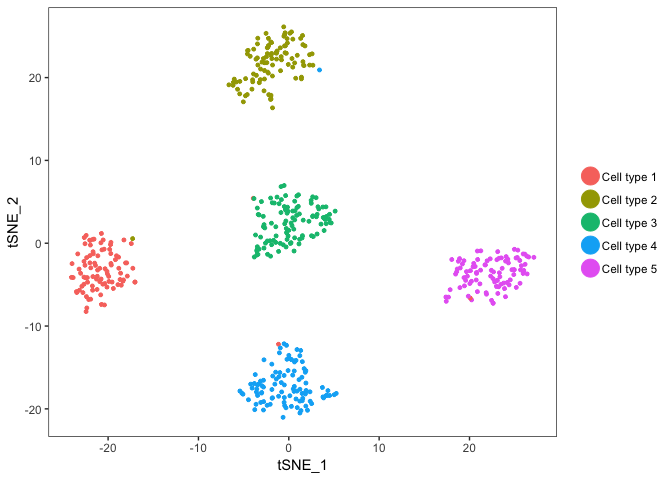
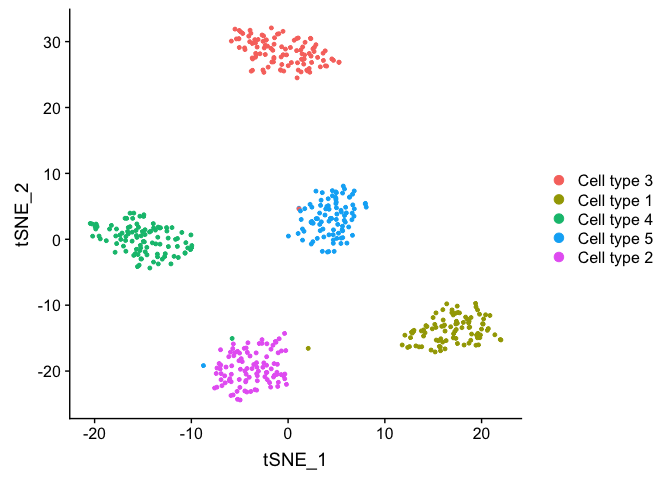
v0.1.1

diff --git a/README.md b/README.md
@@ -5,6 +5,15 @@ README
 
 This package provides a bootstrap imputation method for dropout events in scRNAseq data.
 
+News
+----
+
+> Aug. 14, 2019  
+
+- Version 0.1.1 released!  
+- Compatible with Seurat v3.  
+- Informative genes may be determined using any pipeline (e.g. scran) or method and indicated with `select_genes`.  
+
 Installation
 ------------
 
@@ -88,27 +97,32 @@ comparable_genes <- rowSums(counts_dropout) != 0
 Next, we normalize and scale the data.
 
 ``` r
-expression_true <- Seurat::CreateSeuratObject(raw.data = counts_true, normalization.method = 'LogNormalize', do.scale = TRUE, do.center = TRUE)
-expression_dropout <- Seurat::CreateSeuratObject(raw.data = counts_dropout[comparable_genes, ], normalization.method = 'LogNormalize', do.scale = TRUE, do.center = TRUE)
+expression_true <- Seurat::CreateSeuratObject(counts = counts_true)
+expression_true <- Seurat::NormalizeData(expression_true)
+expression_true <- ScaleData(expression_true, features = rownames(expression_true))
+
+expression_dropout <- Seurat::CreateSeuratObject(counts = counts_dropout[comparable_genes, ])
+expression_dropout <- Seurat::NormalizeData(expression_dropout)
+expression_dropout <- ScaleData(expression_dropout, features = rownames(expression_dropout))
 ```
 
 The last step is dimension reduction with PCA and then visualization with t-SNE.
 
 ``` r
-expression_true <- Seurat::RunPCA(expression_true, pc.genes = rownames(expression_true@data), pcs.print = 0)
-expression_true <- Seurat::SetIdent(expression_true, ident.use = cell_types)
+expression_true <- Seurat::RunPCA(expression_true, features = rownames(expression_true), verbose = FALSE)
+expression_true <- Seurat::SetIdent(expression_true, value = cell_types)
 expression_true <- Seurat::RunTSNE(expression_true)
-Seurat::TSNEPlot(expression_true)
+Seurat::DimPlot(expression_true, reduction = "tsne")
 ```
 
 ![](man/figures/README-unnamed-chunk-9-1.png)
 
 ``` r
 
-expression_dropout <- Seurat::RunPCA(expression_dropout, pc.genes = rownames(expression_dropout@data), pcs.print = 0)
-expression_dropout <- Seurat::SetIdent(expression_dropout, ident.use = cell_types)
+expression_dropout <- Seurat::RunPCA(expression_dropout, features = rownames(expression_dropout), verbose = FALSE)
+expression_dropout <- Seurat::SetIdent(expression_dropout, value = cell_types)
 expression_dropout <- Seurat::RunTSNE(expression_dropout)
-Seurat::TSNEPlot(expression_dropout)
+Seurat::DimPlot(expression_dropout, reduction = "tsne")
 ```
 
 ![](man/figures/README-unnamed-chunk-9-2.png)
@@ -116,15 +130,15 @@ Seurat::TSNEPlot(expression_dropout)
 It's clear that dropout has distorted our evaluation of the data by cell type as compared to what we should see with the full set of counts. Now let's impute zero counts to recover missing expression values and reevaluate.
 
 ``` r
-impute <- rescue::bootstrapImputation(expression_matrix = expression_dropout@data, bootstrap_samples = 100, use_mclapply = TRUE, cores = 3)
+impute <- rescue::bootstrapImputation(expression_matrix = expression_dropout@assays$RNA@data, bootstrap_samples = 100, use_mclapply = TRUE, cores = 3)
 
-expression_imputed <- Seurat::CreateSeuratObject(impute$final_imputation)
-expression_imputed <- Seurat::NormalizeData(expression_imputed, normalization.method = 'none')
+expression_imputed <- Seurat::CreateSeuratObject(counts = impute$final_imputation)
+#expression_imputed <- Seurat::NormalizeData(expression_imputed, normalization.method = 'none')
 expression_imputed <- Seurat::ScaleData(expression_imputed)
-expression_imputed <- Seurat::RunPCA(expression_imputed, pc.genes = rownames(expression_imputed@data), pcs.print = 0)
+expression_imputed <- Seurat::RunPCA(expression_imputed, features = rownames(expression_imputed), verbose = FALSE)
+expression_imputed <- Seurat::SetIdent(expression_imputed, value = cell_types)
 expression_imputed <- Seurat::RunTSNE(expression_imputed)
-expression_imputed <- Seurat::SetIdent(expression_imputed, ident.use = cell_types)
-Seurat::TSNEPlot(expression_imputed)
+Seurat::DimPlot(expression_imputed, reduction = "tsne")
 ```
 
 ![](man/figures/README-unnamed-chunk-10-1.png)
